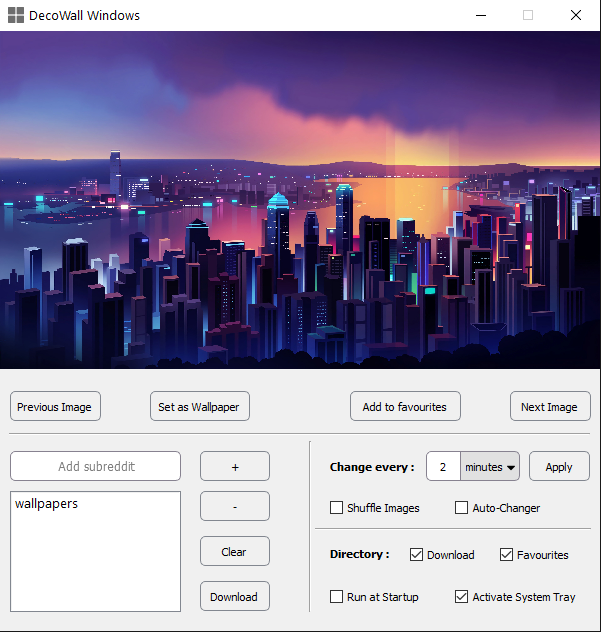
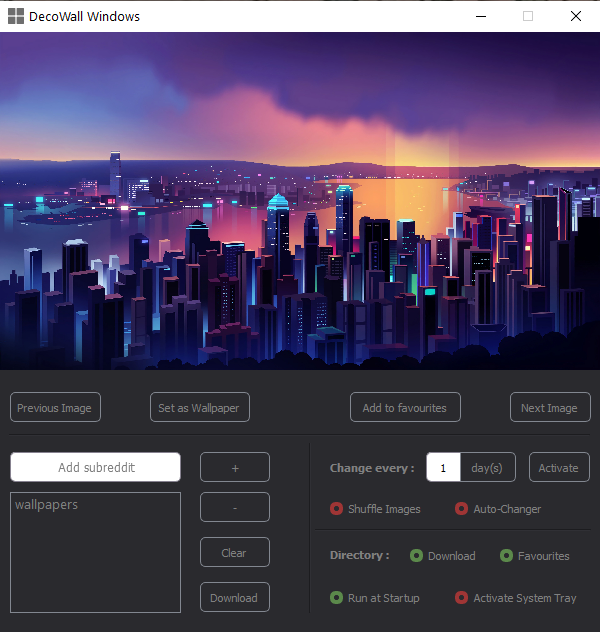
added dark mode

diff --git a/main.py b/main.py
@@ -26,6 +26,7 @@ class MainWindow(QMainWindow):
         initUI(self)
         make_directory()
         self.deque()
+        self.time_list = deque(['minutes', 'hours', 'day(s)'])
 
         keyboard.add_hotkey('ctrl+right', self.next_action_fn)
         keyboard.add_hotkey('ctrl+left', self.previous_action_fn)
@@ -133,17 +134,20 @@ class MainWindow(QMainWindow):
 
         if cbox.text() == "Activate System Tray":
             if cbox.isChecked() == 1:
+                notify("System Tray Activated", " ")
                 apply_config('activate-system-tray', True)
             else:
+                notify("System Tray Deactivated", " ")
                 apply_config('activate-system-tray', False)
 
         if cbox.text() == "Auto-Changer":
             if cbox.isChecked() == 1:
-                apply_config('auto-change', True)
                 notify("Auto Changer Enabled", " ")
+                apply_config('auto-change', True)
             else:
+                notify("Auto Changer Disabled", " ")
                 apply_config('auto-change', False)
-                self.start_auto_changer()
+                self.stop_auto_changer()
 
         if cbox.text() == "Run at Startup":
             if cbox.isChecked() == 1:
@@ -159,7 +163,7 @@ class MainWindow(QMainWindow):
                 apply_config('shuffle-images', False)
                 self.shuffle_images()
 
-    def combobox_apply(self):
+    def change_every_activate(self):
         if get_config('auto-change'):
             try:
                 value = int(self.change_every_value.text())
@@ -171,10 +175,12 @@ class MainWindow(QMainWindow):
                 self.change_every_value.clear()
             else:
                 apply_config('change-every', value)
-                apply_config('time-format', self.change_every_combobox.currentText())
+                apply_config('time-format', self.change_every_btn.text())
 
             self.start_auto_changer()
-            self.comboBox_apply_btn.hide()
+            self.activate_change_every_btn.hide()
+        else:
+            notify("Auto Changer not Enabled", " ")
 
     def display_image_label(self, image_file):
         if self.image_list:
@@ -188,6 +194,11 @@ class MainWindow(QMainWindow):
                 image_file = changed_image_file
                 scaled_image = QPixmap(image_file).scaled(600, 338, Qt.KeepAspectRatio, Qt.FastTransformation)
                 self.image_label.setPixmap(scaled_image)
+
+    def time_btn(self):
+        self.time_list.rotate(1)
+        text_update = self.time_list[0]
+        self.change_every_btn.setText(text_update)
 
     def set_as_wallpaper(self):
         if self.image_list:
@@ -234,6 +245,7 @@ class MainWindow(QMainWindow):
     def closeEvent(self, event):
         if self.systray_cbox.isChecked() == 1:
             event.ignore()
+            notify("System Tray Enabled", " ")
             self.tray_icon.show()
             self.hide()
         else:
@@ -248,9 +260,9 @@ class MainWindow(QMainWindow):
             self.show()
 
     def start_auto_changer(self):
-        if get_config('auto-change'):
-            numeric_value = get_config('change-every')
-            time_format = get_config('time-format')
+        if get_config('auto-change'):  # bool
+            numeric_value = get_config('change-every')  # gets the value
+            time_format = get_config('time-format')  # gets the time-format min/hours/days
             if time_format == 'minutes':
                 time = numeric_value*60
             elif time_format == 'hours':
@@ -261,17 +273,13 @@ class MainWindow(QMainWindow):
             self.initiate_background.start()
             notify("Auto Changer Activated",
                    f"Time has been set to {get_config('change-every')} {get_config('time-format')}")
-        else:
-            try:
-                self.initiate_background.stop()
-                notify("Auto Changer Disabled", " ")
-                self.comboBox_apply_btn.show()
-            except AttributeError:
-                pass
 
-    # def fullscreen(self):
-    #         self.fullscreen_label.setPixmap(QPixmap(self.image_list[0]).scaled(1920, 1080, Qt.KeepAspectRatio, Qt.FastTransformation))
-    #         self.fullscreen_window.showFullScreen()
+    def stop_auto_changer(self):
+        try:
+            self.initiate_background.stop()
+            self.activate_change_every_btn.show()
+        except AttributeError:
+            pass
 
     '''----------------------------------- SYSTEM TRAY FUNCTION CALLS ---------------------------------------------'''
 

diff --git a/ui.py b/ui.py
@@ -2,7 +2,7 @@
 # 3rd Party Libraries
 from PyQt5.QtCore import QRect, Qt
 from PyQt5.QtWidgets import (QApplication, QLineEdit, QLabel, QPushButton, QCheckBox, QShortcut,
-                             QFrame, QWidget, QComboBox, QListWidget, QMenu, QSystemTrayIcon)
+                             QFrame, QWidget, QListWidget, QMenu, QSystemTrayIcon)
 from PyQt5.QtGui import QKeySequence, QFont
 
 # Custom Libraries
@@ -16,8 +16,6 @@ def initUI(self):
     self.setGeometry(self.width / 2 - 300, self.height / 2 - 300, 600, 600)
     self.setFixedSize(600, 600)
     window = QWidget()
-    # self.fullscreen_window = QWidget()
-    # self.fullscreen_label = QLabel(self.fullscreen_window)
     self.setCentralWidget(window)
 
     with open('stylesheet.qss', 'r') as file:
@@ -29,12 +27,6 @@ def initUI(self):
     self.image_label.setGeometry(QRect(0, 0, 600, 339))
     self.image_label.setAlignment(Qt.AlignCenter)
     self.image_label.setObjectName('viewingArea')
-
-    # self.fullscreen_btn = QPushButton(self.image_label)
-    # self.fullscreen_btn.setGeometry(QRect(570, 310, 24, 24))
-    # self.fullscreen_btn.setObjectName('fullScreen')
-    # self.fullscreen_btn.setIcon(QIcon('expand.png'))
-    # self.fullscreen_btn.clicked.connect(self.fullscreen)
 
     self.previous_image_btn = QPushButton(window)
     self.previous_image_btn.setGeometry(QRect(10, 360, 91, 30))
@@ -98,16 +90,14 @@ def initUI(self):
     self.change_every_value.setAlignment(Qt.AlignCenter)
     self.change_every_value.setObjectName('changeValue')
 
-    combo_list = ['minutes', 'hours', 'days']
-    self.change_every_combobox = QComboBox(window)
-    self.change_every_combobox.setGeometry(QRect(457, 420, 63, 30))
-    self.change_every_combobox.setEditable(False)
-    self.change_every_combobox.setMaxVisibleItems(3)
-    self.change_every_combobox.addItems(combo_list)
+    self.change_every_btn = QPushButton(get_config('time-format'), window)
+    self.change_every_btn.setObjectName('timeBtn')
+    self.change_every_btn.setGeometry(QRect(457, 420, 59, 30))
+    self.change_every_btn.clicked.connect(self.time_btn)
 
-    self.comboBox_apply_btn = QPushButton("Apply", window)
-    self.comboBox_apply_btn.setGeometry(529, 420, 61, 30)
-    self.comboBox_apply_btn.clicked.connect(self.combobox_apply)
+    self.activate_change_every_btn = QPushButton("Activate", window)
+    self.activate_change_every_btn.setGeometry(529, 420, 61, 30)
+    self.activate_change_every_btn.clicked.connect(self.change_every_activate)
 
     self.directory_label = QLabel(window)
     self.directory_label.setGeometry(QRect(330, 516, 70, 13))

diff --git a/README.md b/README.md
@@ -1,5 +1,8 @@
 # DecoWall-Windows
-**Version 0.0.1**
+**Version 0.0.2**
+
+## Changelog v 0.0.2
+* Added default dark mode
 
 ## Introduction & Features
 * This is a GUI implemented Desktop wallpaper changer using [PyQt5](https://pypi.org/project/PyQt5/), which includes [PRAW's](https://github.com/praw-dev/praw) API to get images from subreddits and download them using [requests](https://github.com/psf/requests).
@@ -33,7 +36,6 @@ Clone the repository ```git clone https://github.com/a-chakrawarti/DecoWall-for-
 * Once you get your ```client_id``` and ```client_secret``` as shown in the screenshot, copy and paste their respective values in ```config.json``` file against each key.![createapp](/screenshots/reddit_2.png)
 ```sh
 {
-  "config": {
     "client_id": "pVJNRLN7ra20Kg",
     "client_secret": "bWHH-ZEnxIABQZX2HdZX-4S8CLA",
     ...
